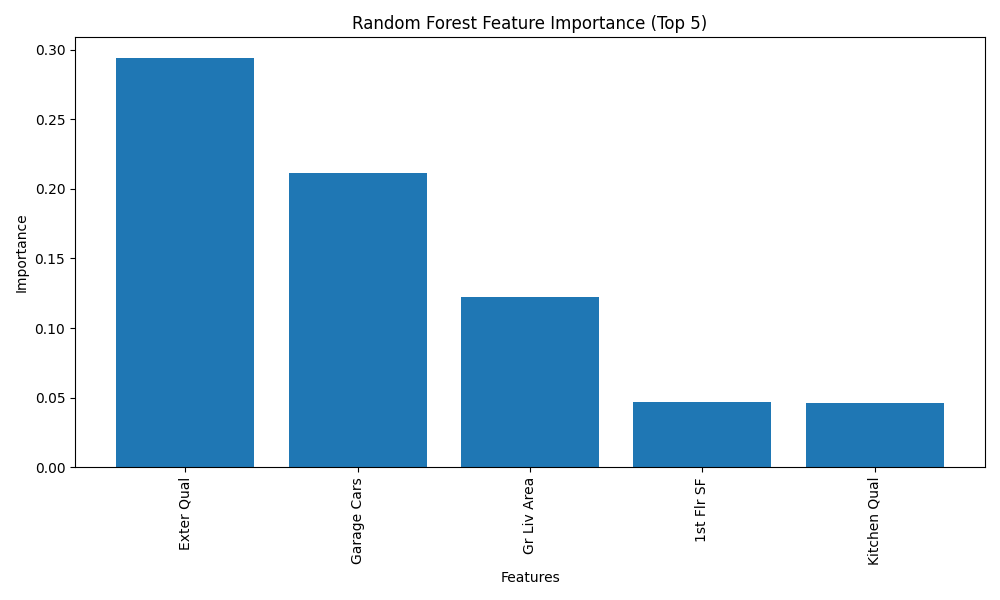
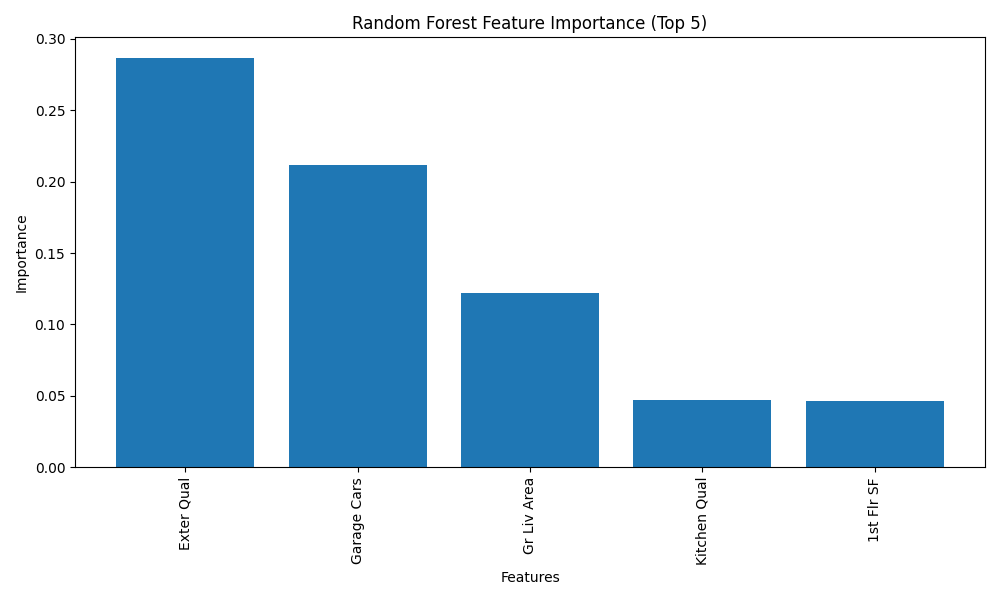
add hyperparameter tuning

diff --git a/random_forest.py b/random_forest.py
@@ -9,6 +9,10 @@ from plot_gen import *
 IMG_DIR = 'images/random_forest'
 os.makedirs(IMG_DIR, exist_ok=True)
 
+OPTIMIAL_ESTIMATORS = 18
+OPTIMIAL_DEPTH = 150
+
+
 class RandomForest(Model):
     def __init__(self, n_estimators=100, max_depth=None, seed=123):
         self.model = RandomForestRegressor(
@@ -34,7 +38,29 @@ def main():
     train_dataset = AmesHousingDataset(mode="train")
     test_dataset = AmesHousingDataset(mode="test")
 
-    rf = RandomForest(n_estimators=200, max_depth=10, seed=123)
+    MAX_EXPLORE_DEPTH = 20
+    MAX_EXPLORE_ESTIMATORS = 300
+
+    depth_with_min_mse = None
+    n_estimators_with_min_mse = None
+    min_mse = float('inf')
+
+
+    for depth in range(1, MAX_EXPLORE_DEPTH):
+        for n_estimators in range(50, MAX_EXPLORE_ESTIMATORS+1, 50):
+            rf = RandomForest(n_estimators=n_estimators, max_depth=depth, seed=123)
+            rf.train(train_dataset)
+            y_test_pred = rf.evaluate(test_dataset)
+            current_mse = mse(y_test_pred, test_dataset.y)
+            print(f"Max depth {depth}, Estimators {n_estimators}: Test MSE = {current_mse}")
+            if current_mse < min_mse:
+                min_mse = current_mse
+                depth_with_min_mse = depth
+                n_estimators_with_min_mse = n_estimators
+
+    print(f"\nOptimal max depth: {depth_with_min_mse}, Optimal number of estimators: {n_estimators_with_min_mse} with Test MSE = {min_mse}\n")
+
+    rf = RandomForest(n_estimators=n_estimators_with_min_mse, max_depth=depth_with_min_mse, seed=123)
     rf.train(train_dataset)
     
     y_train_pred = rf.evaluate(train_dataset)

diff --git a/decision_tree.py b/decision_tree.py
@@ -10,6 +10,7 @@ from plot_gen import *
 IMG_DIR = 'images/decision_tree'
 os.makedirs(IMG_DIR, exist_ok=True)
 
+OPTIMAL_DEPTH = 7
 
 class DecisionTree(Model):
     def __init__(self, max_depth=None):
@@ -26,11 +27,26 @@ class DecisionTree(Model):
         return self.model.predict(dataset.x)
 
 
+
 def main():
     train_dataset = AmesHousingDataset(mode="train")
     test_dataset = AmesHousingDataset(mode="test")
 
-    tree = DecisionTree(max_depth=7)
+    MAX_EXPLORE_DEPTH = 50
+    
+    depth_with_min_mse = None
+    min_mse = float('inf')
+    for i in range(1,MAX_EXPLORE_DEPTH):
+        tree = DecisionTree(max_depth=i)
+        tree.train(train_dataset)
+        y_test_pred = tree.evaluate(test_dataset)
+        current_mse = mse(y_test_pred, test_dataset.y)
+        print(f"Max depth {i}: Test MSE = {current_mse}")
+        if current_mse < min_mse:
+            min_mse = current_mse
+            depth_with_min_mse = i
+    print(f"\nOptimal max depth: {depth_with_min_mse} with Test MSE = {min_mse}\n")
+    tree = DecisionTree(max_depth=depth_with_min_mse)
     tree.train(train_dataset)
 
     y_train_pred = tree.evaluate(train_dataset)
